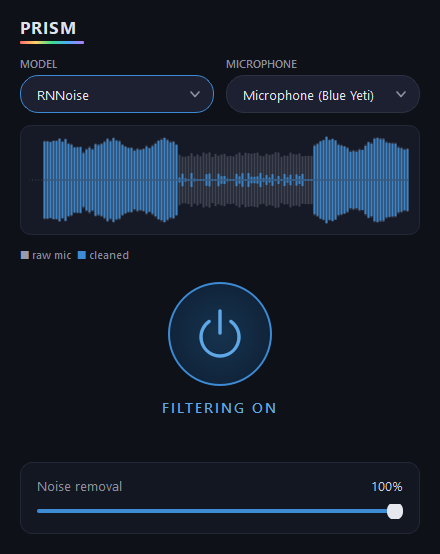
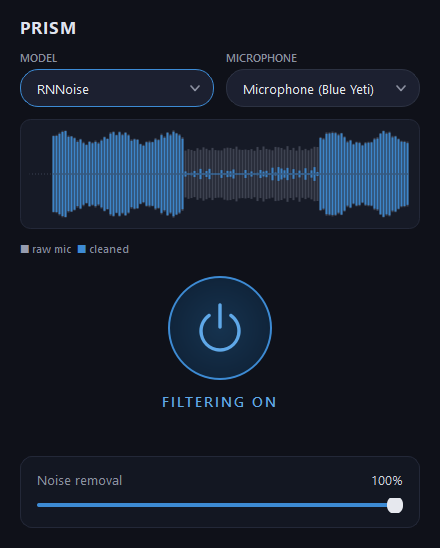
refactor(ui):

diff --git a/prism/ui_qt.py b/prism/ui_qt.py
@@ -67,13 +67,6 @@ QFrame#card {
     background: #131722; border: 1px solid #232838; border-radius: 12px;
 }
 
-QFrame#spectrum {
-    border: none; max-height: 3px; min-height: 3px; border-radius: 1px;
-    background: qlineargradient(x1:0, y1:0, x2:1, y2:0,
-        stop:0 #ff6b6b, stop:0.25 #ffd166, stop:0.5 #37e08f,
-        stop:0.75 #4dabf7, stop:1 #b57bff);
-}
-
 /* Pill-shaped pickers (the two dropdowns up top share this look). */
 QComboBox {
     background: #1c2030; border: 1px solid #2c3242; border-radius: 18px;
@@ -394,19 +387,11 @@ def run_ui(engine):
     outer.setContentsMargins(20, 16, 20, 20)
     outer.setSpacing(12)
 
-    # --- Title with a prism-spectrum underline --------------------------------
+    # --- Title -----------------------------------------------------------------
     title = QLabel("PRISM")
     title.setObjectName("title")
-    spectrum = QFrame()
-    spectrum.setObjectName("spectrum")
-    spectrum.setFixedWidth(64)
-    title_col = QVBoxLayout()
-    title_col.setContentsMargins(0, 0, 0, 0)
-    title_col.setSpacing(3)
-    title_col.addWidget(title)
-    title_col.addWidget(spectrum)
     title_row = QHBoxLayout()
-    title_row.addLayout(title_col)
+    title_row.addWidget(title)
     title_row.addStretch(1)
     outer.addLayout(title_row)
 

diff --git a/CLAUDE.md b/CLAUDE.md
@@ -166,8 +166,13 @@ reboot). Whether to bundle vs. user-install is an open question (see PRD §13).
 3. **Voice isolation** — Silero VAD (~5ms) for speech detection + Demucs v4
    (streaming) to separate user's voice from background voices/music/TV.
 4. **Sound injection** — soundboard, hotkeys, per-sound volume.
-5. **UI & distribution** — Tauri desktop UI (Rust shell + web frontend), tray
-   icon, device picker, level visualizer; Windows `.exe` + Linux AppImage/.deb.
+5. **UI & distribution** — PySide6/Qt desktop UI (`prism/ui_qt.py`, already the
+   running control window: hero toggle, live scope, strength slider, model +
+   mic pickers), tray icon, device picker, level visualizer; Windows `.exe` +
+   Linux AppImage/.deb. Originally planned as a Tauri (Rust shell + web
+   frontend) app — switched to PySide6 so the whole app ships as one
+   Python+Qt package instead of a Rust shell driving a separate Python audio
+   backend over IPC (see Tech stack below).
 
 Intended signal-chain order once built:
 `mic → high-pass → noise gate → Silero VAD → DeepFilterNet → Demucs v4 → cable`
@@ -180,8 +185,15 @@ Intended signal-chain order once built:
 | Signal processing | `numpy`, `scipy` |
 | AI models | RNNoise, GTCRN, DeepFilterNet, Silero VAD, Demucs v4 |
 | Virtual device | VB-Audio Virtual Cable |
-| Desktop UI (later) | Tauri (Rust + HTML/CSS/JS) |
-| Languages | Python (backend), Rust (UI shell) |
+| Desktop UI | PySide6 / Qt for Python (`prism/ui_qt.py`) |
+| Languages | Python |
+
+**Why PySide6 instead of Tauri:** the roadmap originally called for a Tauri
+(Rust shell + web frontend) desktop UI. That would mean packaging and
+distributing two runtimes — a Rust/webview shell plus the Python audio
+backend it drives over IPC. PySide6 keeps the whole app one Python process,
+so it packages as a single PyInstaller `.exe` (see `Prism.spec`) with no
+cross-language IPC boundary between UI and audio.
 
 ## Environment & running
 

diff --git a/roadmap.md b/roadmap.md
@@ -46,10 +46,20 @@ DeepFilterNet) before it becomes integration work.
 
 ## Phase 4 — UI & distribution
 
-Status: planned
+Status: in progress
 
-Tauri desktop UI (tray icon, device picker, level visualizer), packaged
-Windows `.exe`, Linux AppImage/.deb.
+**Desktop UI — largely done.** This was originally planned as a Tauri (Rust
+shell + web frontend) app. Switched to a **PySide6/Qt** control window
+(`prism/ui_qt.py`) instead: a Tauri build means packaging and shipping two
+runtimes — a Rust/webview shell plus the Python audio backend it talks to
+over IPC. PySide6 keeps the UI and the audio engine in one Python process, so
+the whole app bundles into a single PyInstaller `.exe` with no IPC boundary
+to design around or debug. The window already has the hero on/off toggle, a
+live raw-vs-cleaned level scope, model and microphone pickers, and a
+noise-removal strength slider.
+
+**Remaining:** a system tray icon (minimize-to-tray instead of quitting on
+close), and packaged builds — Windows `.exe` and Linux AppImage/.deb.
 
 Website tasks parked until the pieces exist:
 

diff --git a/README.md b/README.md
@@ -137,7 +137,7 @@ prism/
   config.py         # all tunable knobs (samplerate, cutoffs, denoiser choice)
   audio.py          # device discovery + the full-duplex stream runner
   pipeline.py       # Pipeline (chains stages) + build_denoiser()
-  ui.py             # control window: toggle, model picker, strength, meters
+  ui_qt.py          # PySide6 control window: toggle, model picker, strength, meters
   meters.py         # NoiseMeter — room-noise floor + reduction readout
   dsp/
     highpass.py     # HighPassFilter — Butterworth, stateful
@@ -174,8 +174,11 @@ in [prism/pipeline.py](prism/pipeline.py) — the audio callback stays untouched
    (~32 ms), switchable live, strength slider, noise meter.
 3. **Voice isolation** *(next)* — Silero VAD for speech detection + Demucs v4 to
    separate your voice from background voices, music, and TV.
-4. **UI & distribution** — Tauri desktop UI, tray icon, device picker, level
-   visualizer; Windows `.exe` + Linux AppImage/`.deb`.
+4. **UI & distribution** — PySide6/Qt desktop UI *(largely done — see
+   `prism/ui_qt.py`)*, tray icon, device picker, level visualizer; Windows
+   `.exe` + Linux AppImage/`.deb`. Originally planned as a Tauri (Rust) app;
+   switched to PySide6 so the app ships as one Python+Qt package instead of a
+   Rust shell talking to a separate Python audio backend over IPC.
 
 Today's chain is `mic → high-pass → AI denoiser → noise gate → cable`; the
 Phase 3 voice-isolation stages slot in after the gate. Full plan with statuses: